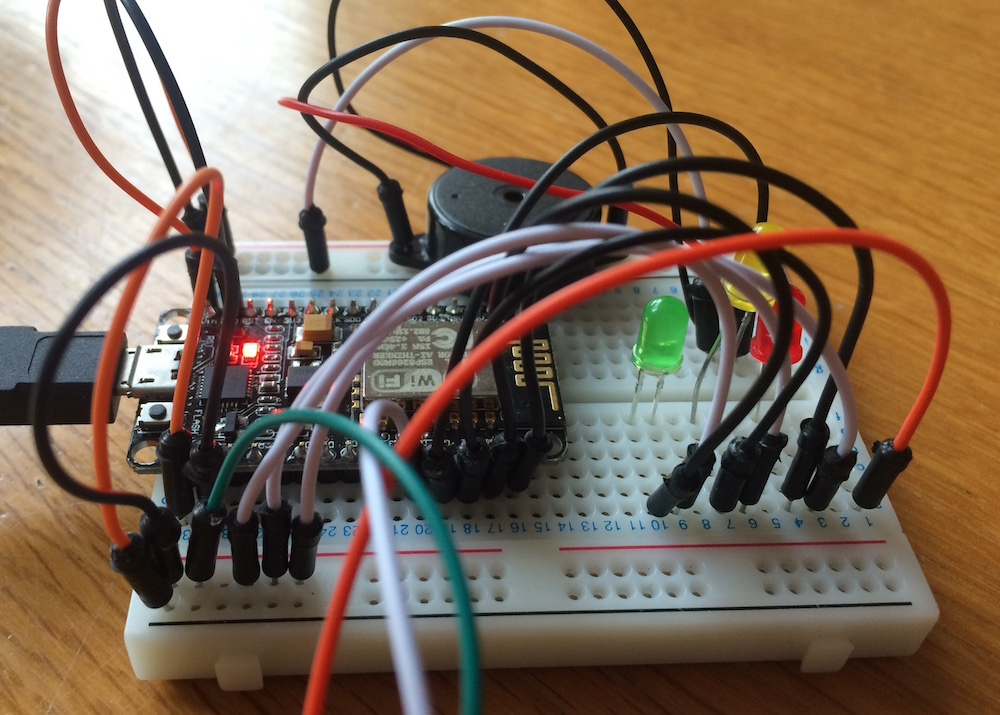
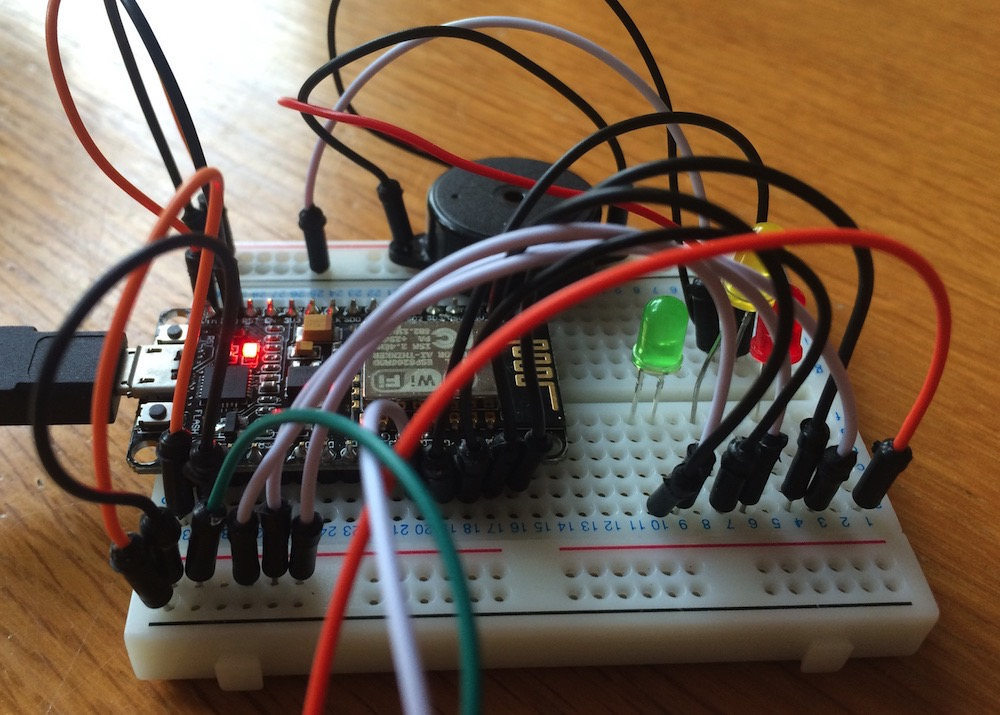
change images to jpg

diff --git a/README.md b/README.md
@@ -62,7 +62,7 @@ const int httpPort      = 80;
 
 - Upload the code to your NodeMCU with the button on the top of the app.
 
-![screenshot of the adruino IDE](readme/ardriono.png)
+![screenshot of the adruino IDE](readme/ardriono.jpg)
 
 Now your NodeMCU will connect to your WiFi.*  And it will try to get and post to your server. 
 
@@ -146,19 +146,21 @@ Now the server will run on your desktop locally. If you would like to access the
 ## Status 
 There are several statuses in the app. The first status is that the door is closed. On the home page, you will see a green bar. On the NodeMCU, the green Led will be on. 
 
-![Green satus](readme/green.png)
+![Green satus](readme/green.jpg)
 
 If your door is open the bar will be blue. The green Led will be on.
 
-![Green satus](readme/bleu.png)
+![Green satus](readme/bleu.jpg)
+
 
 When the door is open for X min the led will be orange, so will the layout also be. 
 
-![Green satus](readme/orange.png)
+![Green satus](readme/orange.jpg)
+![setup](readme/led_on.jpg)
 
 If the door is open for x time the red LED will turn on and the alarm will go on. When you close the door the page will be green again.
 
-![Green satus](readme/red.png)
+![Green satus](readme/red.jpg)
 
 ## Code structure server
 In the ```app.js``` file you can find the start file from the app. for every route is a file in the  ```routes/file.js```. If there is a post request to the server it will store the data in the  ```resources/doorStatus.js```.
